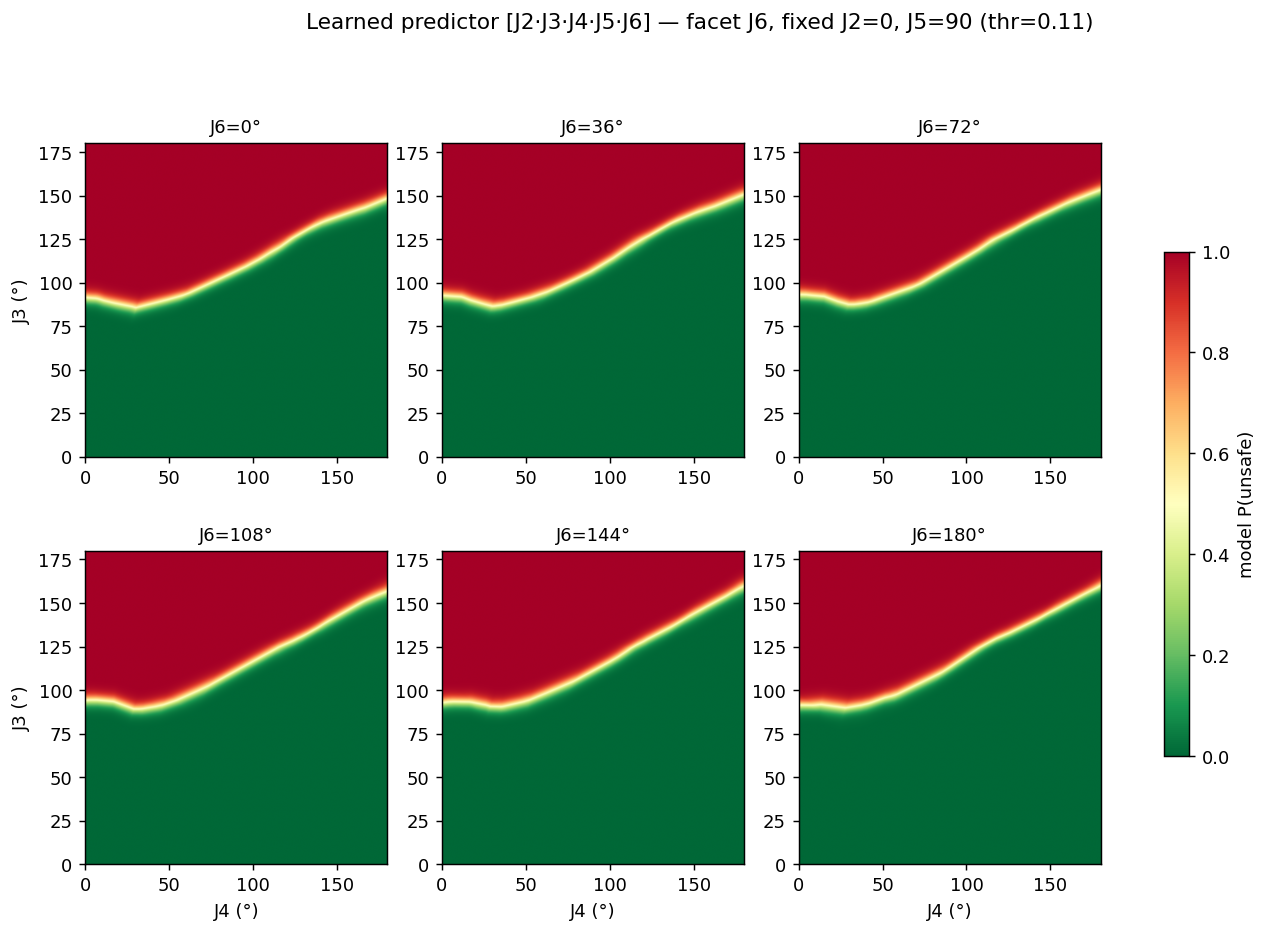
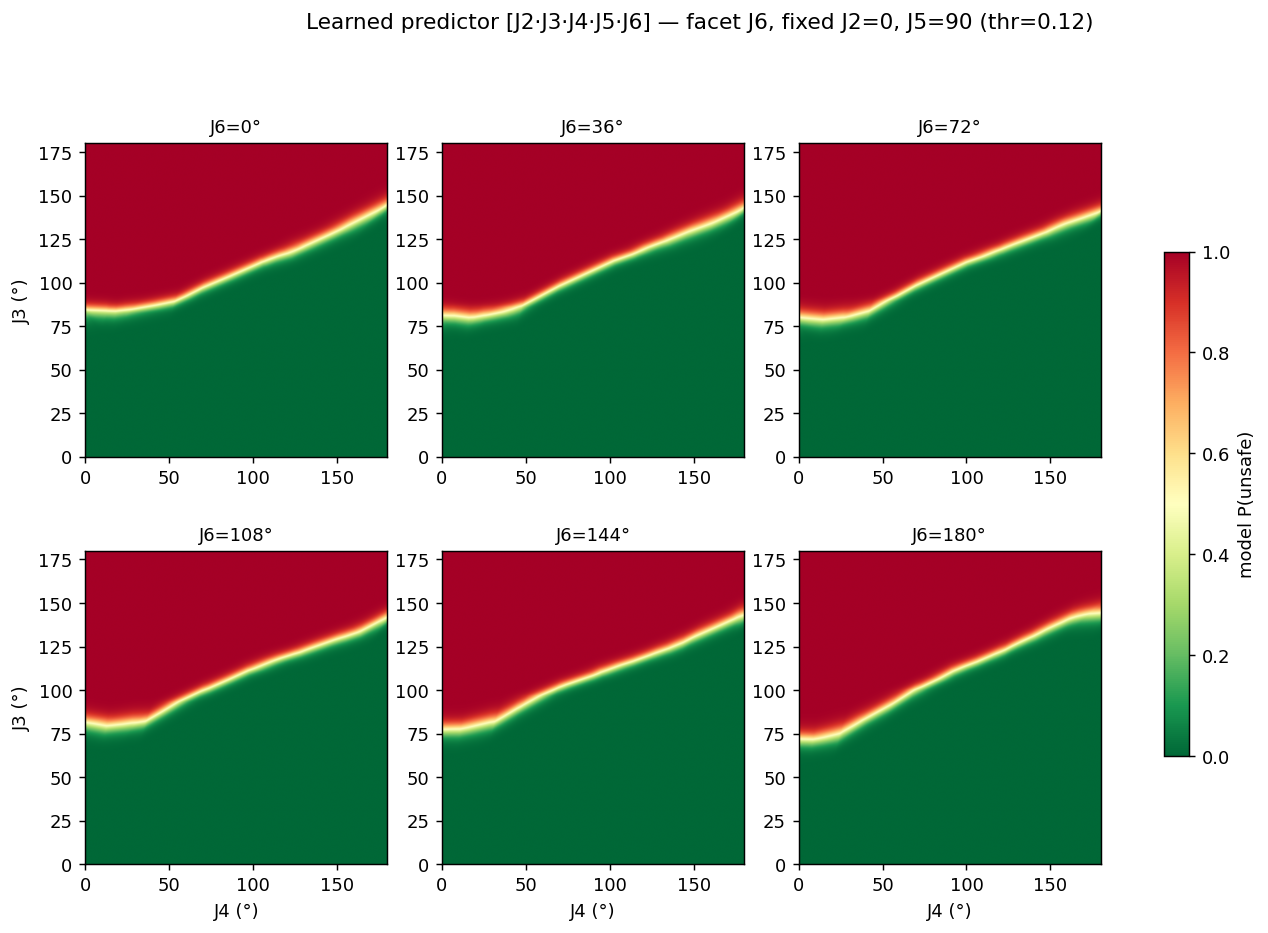
refine(L1): 안전마진을 콜드스타트 실측 gap에 연동(#4) + 잔존위험 정량화
마진 근거(측정): 콜드스타트 FK 잔차 = 말단위치 평균12.4·최악30.8mm.
- floor margin=30mm (외부 평면, 최악 sim-real gap 전부 적용)
- self margin=15mm (상대 기하라 오차 일부 상쇄 → 절반)
- → "시뮬 안전 ⇒ 실물 안전"이 임의값 아닌 측정에 근거.

L1 보강:
- 놓친 위험(FN)의 실제 침투깊이 분석 = 잔존위험 정량화
- 5D 결과(마진30/15): 위험14.3%, 정확도98.93%, 안전임계서 재현율99.5%
  미탐 7개의 침투깊이 중앙값 2.7mm·최악16.9mm → 30mm 보정마진이 흡수(잔존위험 낮음)
- 기본 마진을 30/15(캘리브레이션 연동)로 변경

diff --git a/laptop/calibration/cspace_learn.py b/laptop/calibration/cspace_learn.py
@@ -42,8 +42,9 @@ def load(path, fm, sm):
     X = np.column_stack([arr[j] for j in feats])
     fc = np.array([float(r["floor_clear_mm"]) for r in rows])
     sc = np.array([float(r["self_clear_mm"]) if r["self_clear_mm"] not in ("", None) else BIG for r in rows])
-    y = ((fc < fm) | (sc < sm)).astype(int)   # 1 = 위험
-    return X, y, feats
+    y = ((fc < fm) | (sc < sm)).astype(int)               # 1 = 위험
+    sclr = np.minimum(fc - fm, sc - sm)                    # 안전여유(마진반영, 음수=위험·깊이)
+    return X, y, feats, sclr
 
 
 def fig_compare(model, scaler, feats, X, y, thr):
@@ -91,10 +92,10 @@ def fig_compare(model, scaler, feats, X, y, thr):
 
 def main(path, fm, sm):
     os.makedirs(OUT_DIR, exist_ok=True)
-    X, y, feats = load(path, fm, sm)
+    X, y, feats, sclr = load(path, fm, sm)
     print(f"데이터 {len(X)}조합 · 입력관절 {feats} ({len(feats)}D) · 위험 {y.sum()} ({100*y.mean():.1f}%)  [margin floor≥{fm} self≥{sm}]")
 
-    Xtr, Xte, ytr, yte = train_test_split(X, y, test_size=0.25, random_state=0, stratify=y)
+    Xtr, Xte, ytr, yte, _, scte = train_test_split(X, y, sclr, test_size=0.25, random_state=0, stratify=y)
     scaler = StandardScaler().fit(Xtr)
     clf = MLPClassifier(hidden_layer_sizes=(64, 64), max_iter=400, random_state=0)
     clf.fit(scaler.transform(Xtr), ytr)
@@ -118,6 +119,13 @@ def main(path, fm, sm):
     print(f"\n[안전 임계 {thr:.3f}] 위험 재현율 {recall_score(yte,predS)*100:.2f}%  "
           f"미탐 {cmS[1,0]}개  오경보율 {fp_rate*100:.1f}%(안전을 위험으로)")
 
+    # 잔존 위험: 놓친 위험(FN)이 실제로 얼마나 깊은 충돌인가 → 안전 주장의 핵심
+    fn = (yte == 1) & (predS == 0)
+    if fn.sum():
+        d = -scte[fn]   # 침투 깊이(mm, 클수록 위험)
+        print(f"  └ 놓친 위험 {fn.sum()}개의 실제 침투깊이: 중앙값 {np.median(d):.1f}mm · 최악 {d.max():.1f}mm")
+        print(f"    (경계 근처 얕은 미탐이면 잔존위험 낮음 — 마진이 이미 {fm}/{sm}mm 흡수)")
+
     # 추론 속도(검증층 가치): 메시검사 대신 모델 질의
     Xs = scaler.transform(Xte); t0 = time.perf_counter()
     clf.predict(Xs); dt = (time.perf_counter() - t0) / len(Xs) * 1e6
@@ -127,7 +135,9 @@ def main(path, fm, sm):
 
 
 if __name__ == "__main__":
-    path = sys.argv[1] if len(sys.argv) > 1 else r"calibration/validation_data/cspace_map.csv"
-    fm = float(sys.argv[2]) if len(sys.argv) > 2 else 15.0
-    sm = float(sys.argv[3]) if len(sys.argv) > 3 else 10.0
+    # 기본 마진 = 콜드스타트 실측 sim-real gap. floor=30(말단 위치 최악잔차 30.8mm, 외부 평면),
+    # self=15(상대 기하라 오차 일부 상쇄 → 절반). → "시뮬 안전 ⇒ 실물 안전" 측정 근거.
+    path = sys.argv[1] if len(sys.argv) > 1 else r"calibration/validation_data/cspace_rand.csv"
+    fm = float(sys.argv[2]) if len(sys.argv) > 2 else 30.0
+    sm = float(sys.argv[3]) if len(sys.argv) > 3 else 15.0
     main(path, fm, sm)

diff --git a/laptop/calibration/cspace_analysis.py b/laptop/calibration/cspace_analysis.py
@@ -104,6 +104,6 @@ def main(path, fm, sm):
 
 if __name__ == "__main__":
     path = sys.argv[1] if len(sys.argv) > 1 else r"C:\Users\use08\Downloads\cspace_map.csv"
-    fm = float(sys.argv[2]) if len(sys.argv) > 2 else 15.0
-    sm = float(sys.argv[3]) if len(sys.argv) > 3 else 10.0
+    fm = float(sys.argv[2]) if len(sys.argv) > 2 else 30.0   # 콜드스타트 실측 sim-real gap
+    sm = float(sys.argv[3]) if len(sys.argv) > 3 else 15.0
     main(path, fm, sm)
